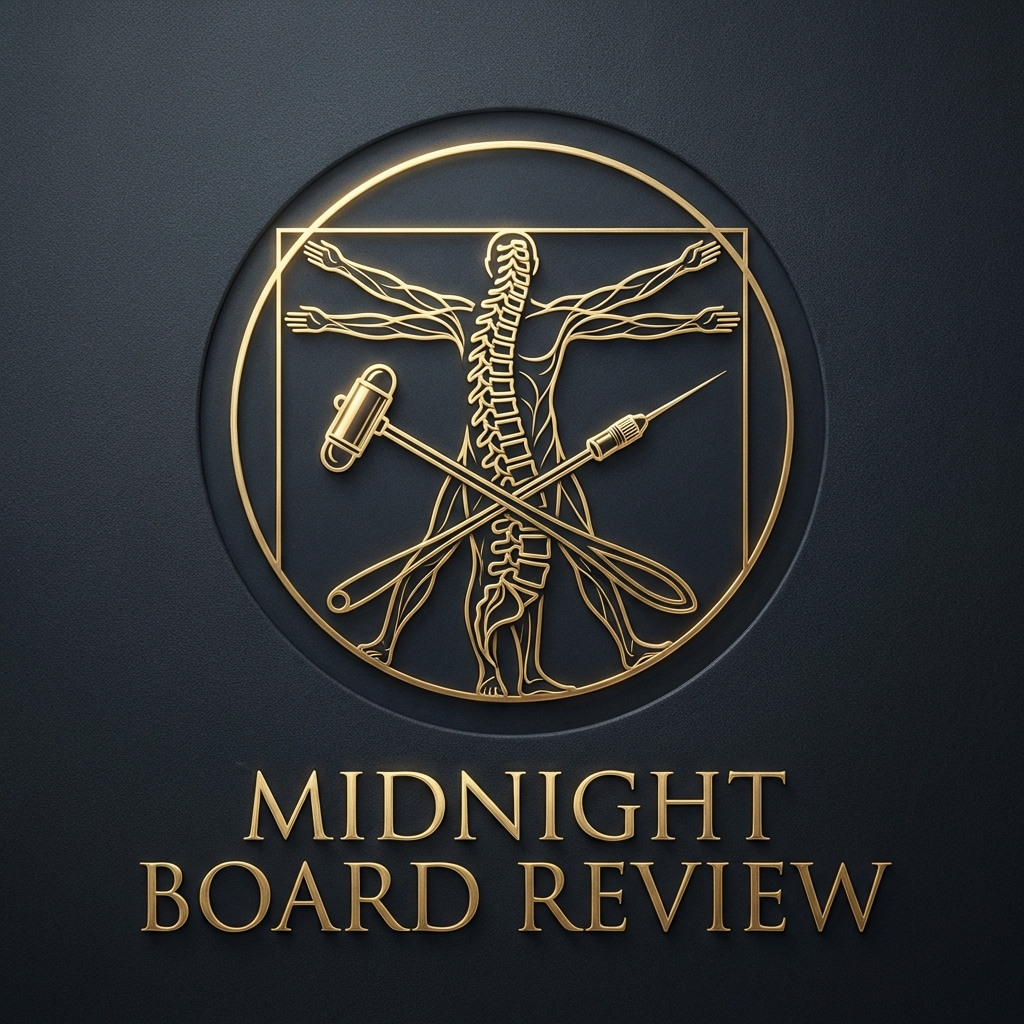
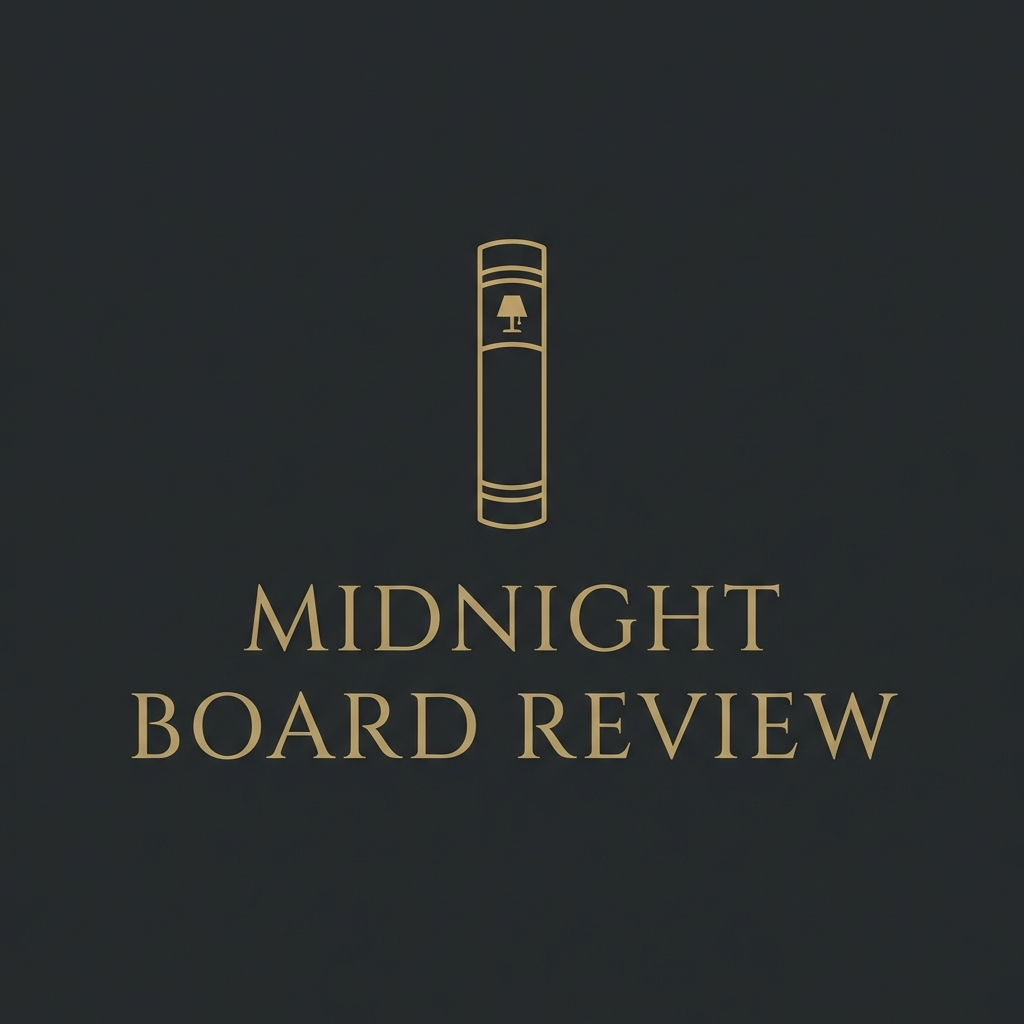
feat: Simplify cover art to minimalist PM&R theme

diff --git a/js/player.js b/js/player.js
@@ -140,7 +140,7 @@ function updateMediaSession(episode) {
             title: episode.title,
             artist: 'Midnight Review',
             album: 'Board Review Podcast',
-            artwork: [{ src: 'cover.jpg?v=3', sizes: '512x512', type: 'image/jpeg' }]
+            artwork: [{ src: 'cover.jpg?v=4', sizes: '512x512', type: 'image/jpeg' }]
         });
 
         navigator.mediaSession.setActionHandler('play', playAudio);
